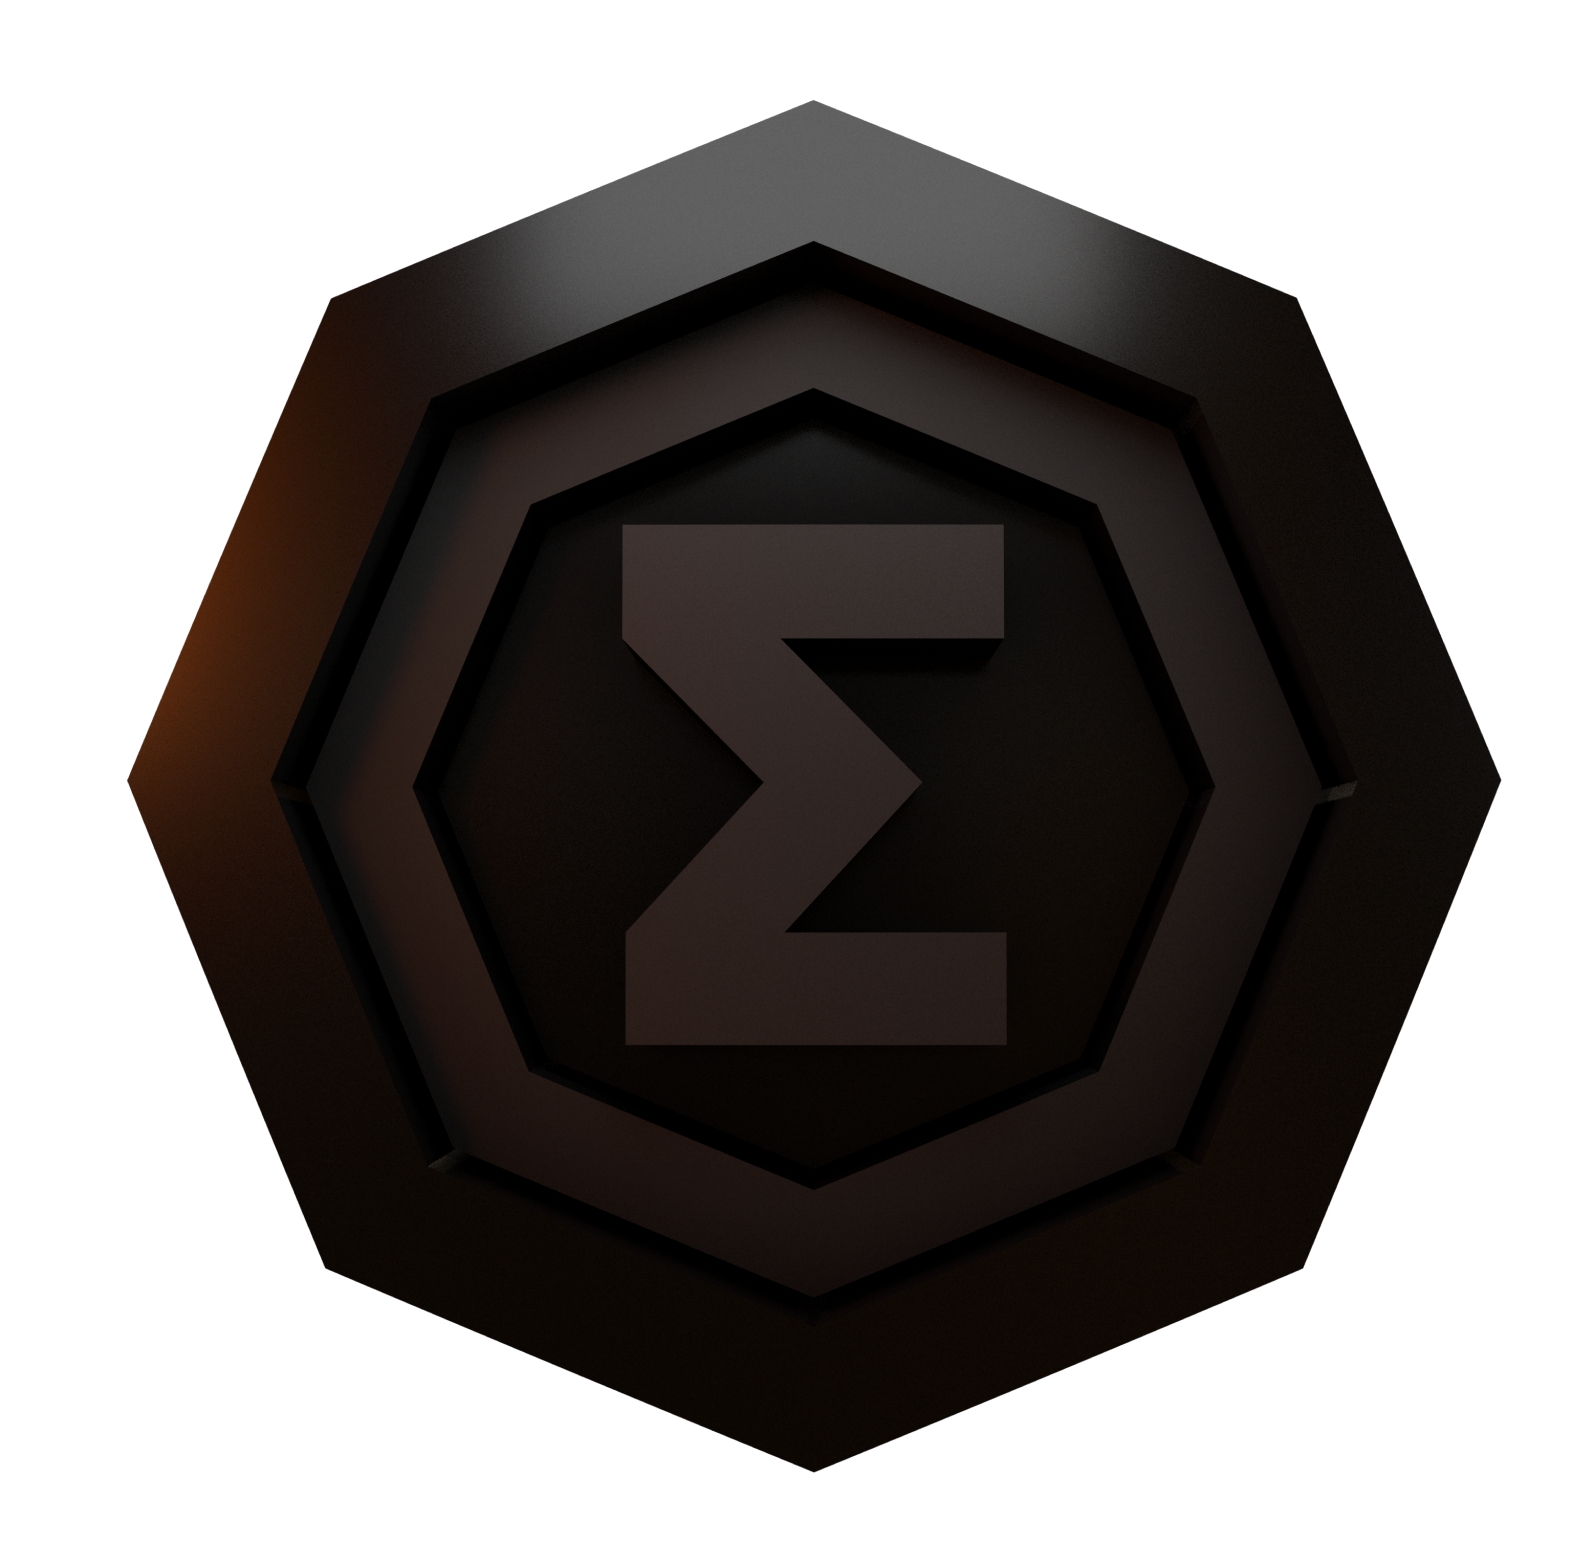
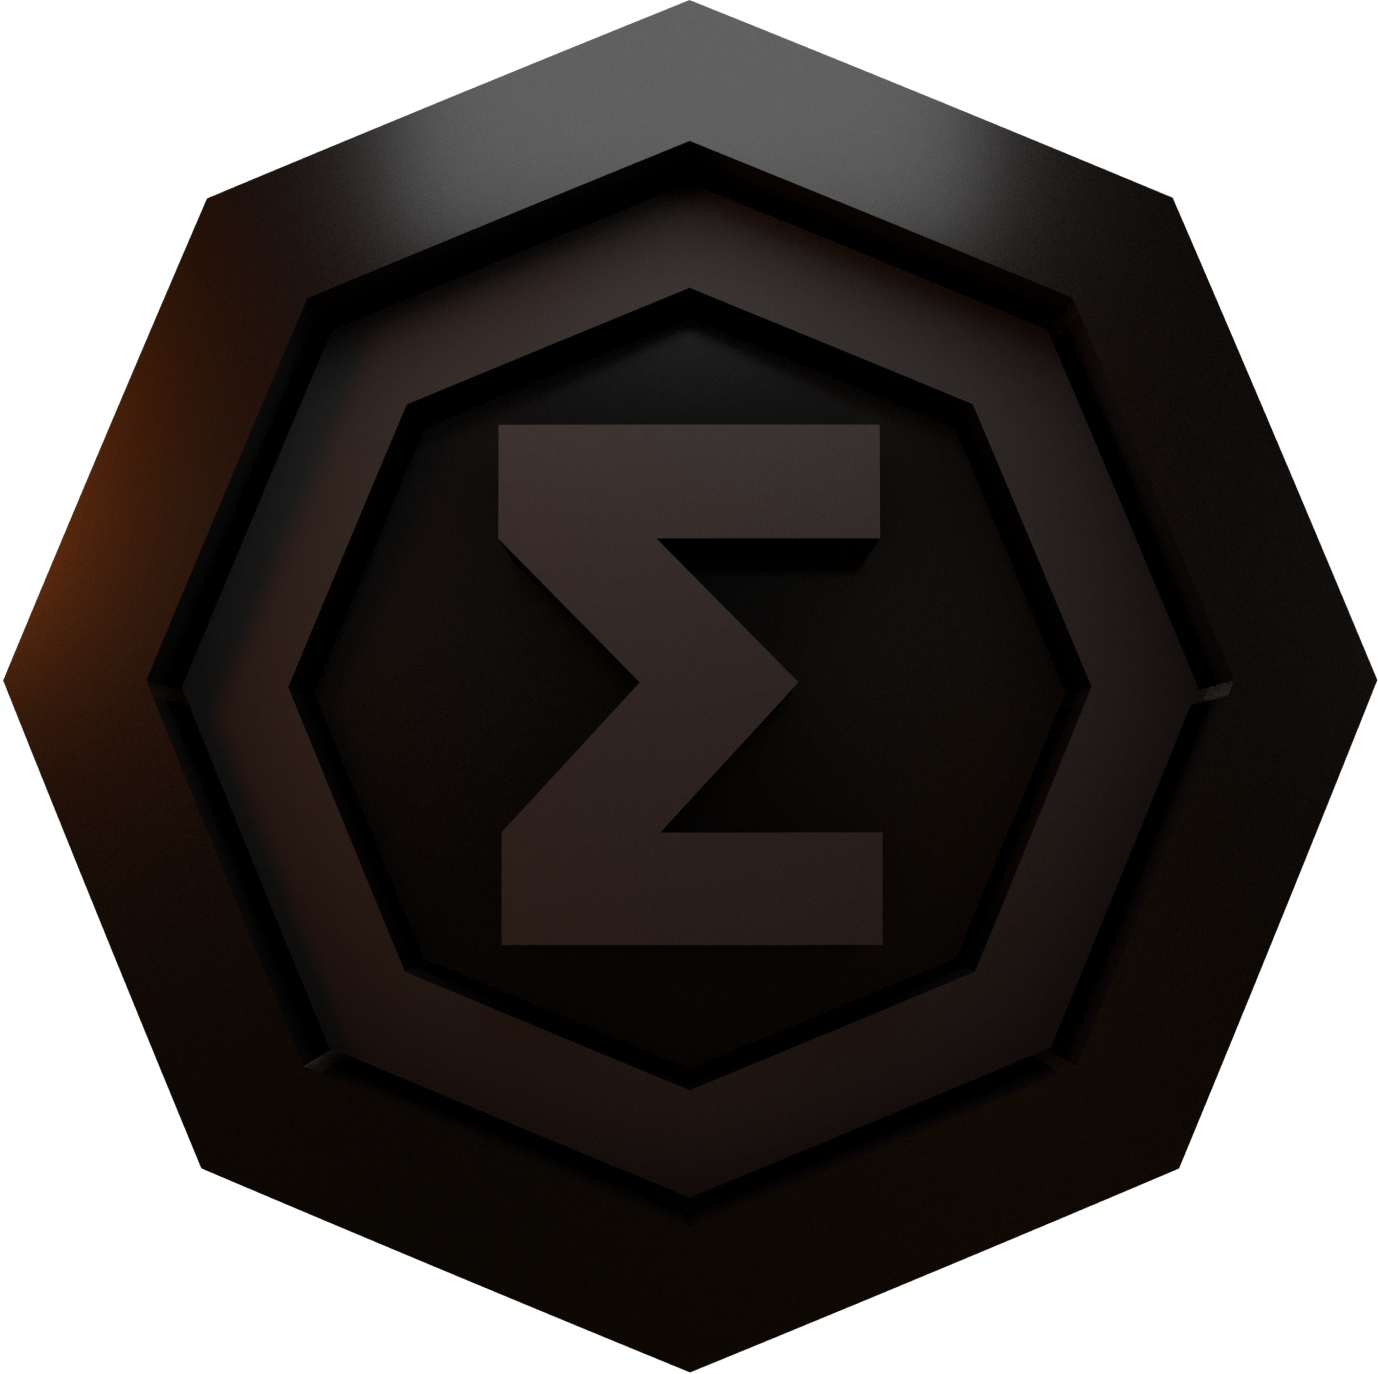
add final token page

diff --git a/components/rework/Token/Hero.tsx b/components/rework/Token/Hero.tsx
@@ -5,19 +5,42 @@ import Typography from 'components/rework/Typography';
 function Hero() {
   return (
     <div className="container-rework">
-      <div className="relative flex justify-between bg-background-card">
-        <div className="w-[489px] bg-background-card py-24 px-20">
-          <ArrowTitle className="mb-8">
+      <div className="relative flex justify-between bg-background-card sm-max:flex-col-reverse sm-max:overflow-hidden">
+        <div
+          className="
+          w-[489px] bg-background-card py-24 px-20 
+          lg-max:py-16 lg-max:px-15 md-max:px-10
+          md-max:py-12 sm-max:px-5 sm-max:pb-5 sm-max:pt-0 
+          sm-max:mt-[-40px] sm-max:w-full
+        "
+        >
+          <ArrowTitle className="mb-8 md-max:mb-2">
             Ergo <br /> token
           </ArrowTitle>
-          <Typography as={'p'} className="max-w-[275px]">
+          <Typography
+            as={'p'}
+            className="max-w-[275px] lg-max:max-w-[250px] md-max:w-[190px] sm-max:w-full"
+          >
             There is a rich ecosystem budding on top of Ergo. Whether you are a
             developer, miner, or investor - we’ve got you covered
           </Typography>
         </div>
-        <div className="w-[608px] brand-139-gradient" />
-        <div className="absolute size-full">
-          <img src="/assets/token/coin.png" className="h-full" alt="Coin" />
+        <div className="w-[608px] brand-139-gradient lg-max:w-[500px] md-max:hidden" />
+        <div
+          className="
+            absolute size-full overflow-hidden flex items-center justify-center pl-72
+            pointer-events-none	lg-max:pl-80 md-max:pl-0 md-max:justify-end sm-max:static 
+            sm-max:overflow-visible
+          "
+        >
+          <img
+            src="/assets/token/coin.png"
+            className="
+              relative h-[140%] top-[7px] md-max:right-[-85px] sm-max:h-[220px] 
+              sm-max:right-[-50px] sm-max:top-[-22px]
+            "
+            alt="Coin"
+          />
         </div>
       </div>
     </div>

diff --git a/components/rework/Header/index.tsx b/components/rework/Header/index.tsx
@@ -8,8 +8,9 @@ import { nav } from 'content/navigation';
 import Menu from './Menu';
 import MobileMenu from './MobileMenu';
 import Language from './Language';
+import ArrowDown from 'assets/icons/arrow-small-down.svg';
 
-const navItemClass = 'px-5 py-3 text-sm transition-colors rounded-full';
+const navItemClass = '';
 
 function Header() {
   const [activeNav, setActiveNav] = useState<number | null>(null);
@@ -34,18 +35,22 @@ function Header() {
                 type="button"
                 key={idx}
                 onClick={() => changeActiveNav(idx)}
+                className={`group flex gap-x-2 items-center px-5 py-3 transition-colors rounded-full ${
+                  activeNav !== idx
+                    ? 'hover:text-brand-orange'
+                    : 'bg-background'
+                }`}
               >
-                <Typography
-                  as="span"
-                  type="alt"
-                  className={`${navItemClass} ${
-                    activeNav !== idx
-                      ? 'hover:text-brand-orange'
-                      : 'bg-background'
-                  }`}
-                >
+                <Typography as="span" type="alt">
                   {item.category}
                 </Typography>
+                <ArrowDown
+                  className={`w-5 h-auto stroke-2 transition-colors ${
+                    activeNav === idx
+                      ? 'rotate-180'
+                      : 'group-hover:stroke-brand-orange'
+                  }`}
+                />
               </button>
             );
           })}

diff --git a/components/rework/Token/Mine.tsx b/components/rework/Token/Mine.tsx
@@ -45,8 +45,12 @@ function Mine() {
             </Button>
           </div>
           <div className="flex flex-wrap gap-1.5">
-            {miningPools.map((item) => {
-              return <ExternalLink link={item.link}>{item.name}</ExternalLink>;
+            {miningPools.map((item, idx) => {
+              return (
+                <ExternalLink link={item.link} key={idx}>
+                  {item.name}
+                </ExternalLink>
+              );
             })}
           </div>
         </div>
@@ -57,8 +61,12 @@ function Mine() {
             </Typography>
           </div>
           <div className="flex flex-wrap gap-1.5">
-            {miners.map((item) => {
-              return <ExternalLink link={item.link}>{item.name}</ExternalLink>;
+            {miners.map((item, idx) => {
+              return (
+                <ExternalLink link={item.link} key={idx}>
+                  {item.name}
+                </ExternalLink>
+              );
             })}
           </div>
         </div>

diff --git a/components/rework/Table/index.tsx b/components/rework/Table/index.tsx
@@ -50,11 +50,11 @@ function Table(props: Props) {
 
   const tableHeaderClass = classNames(
     props.gridClass,
-    'grid justify-between text-secondary-gray mb-8'
+    'grid justify-between items-center text-secondary-gray mb-8'
   );
   const tableBodyClass = classNames(
     props.gridClass,
-    'grid justify-between mb-1 py-6 md-max:py-5'
+    'grid justify-between items-center mb-1 py-6 md-max:py-5'
   );
 
   return (

diff --git a/tailwind.config.js b/tailwind.config.js
@@ -103,7 +103,7 @@ module.exports = {
         'exchanges': '185px 158px 70px 85px 84px',
         'exchanges-md': '100px 123px 54px 85px 55px',
         'wallets': '185px 124px 109px 136px 84px',
-        'wallets-md': '133px 92px 90px 115px 54px',
+        'wallets-md': '173px 92px 90px 115px 54px',
       },
       gridTemplateRows: {
         'bordered': '60px 1fr 60px',
